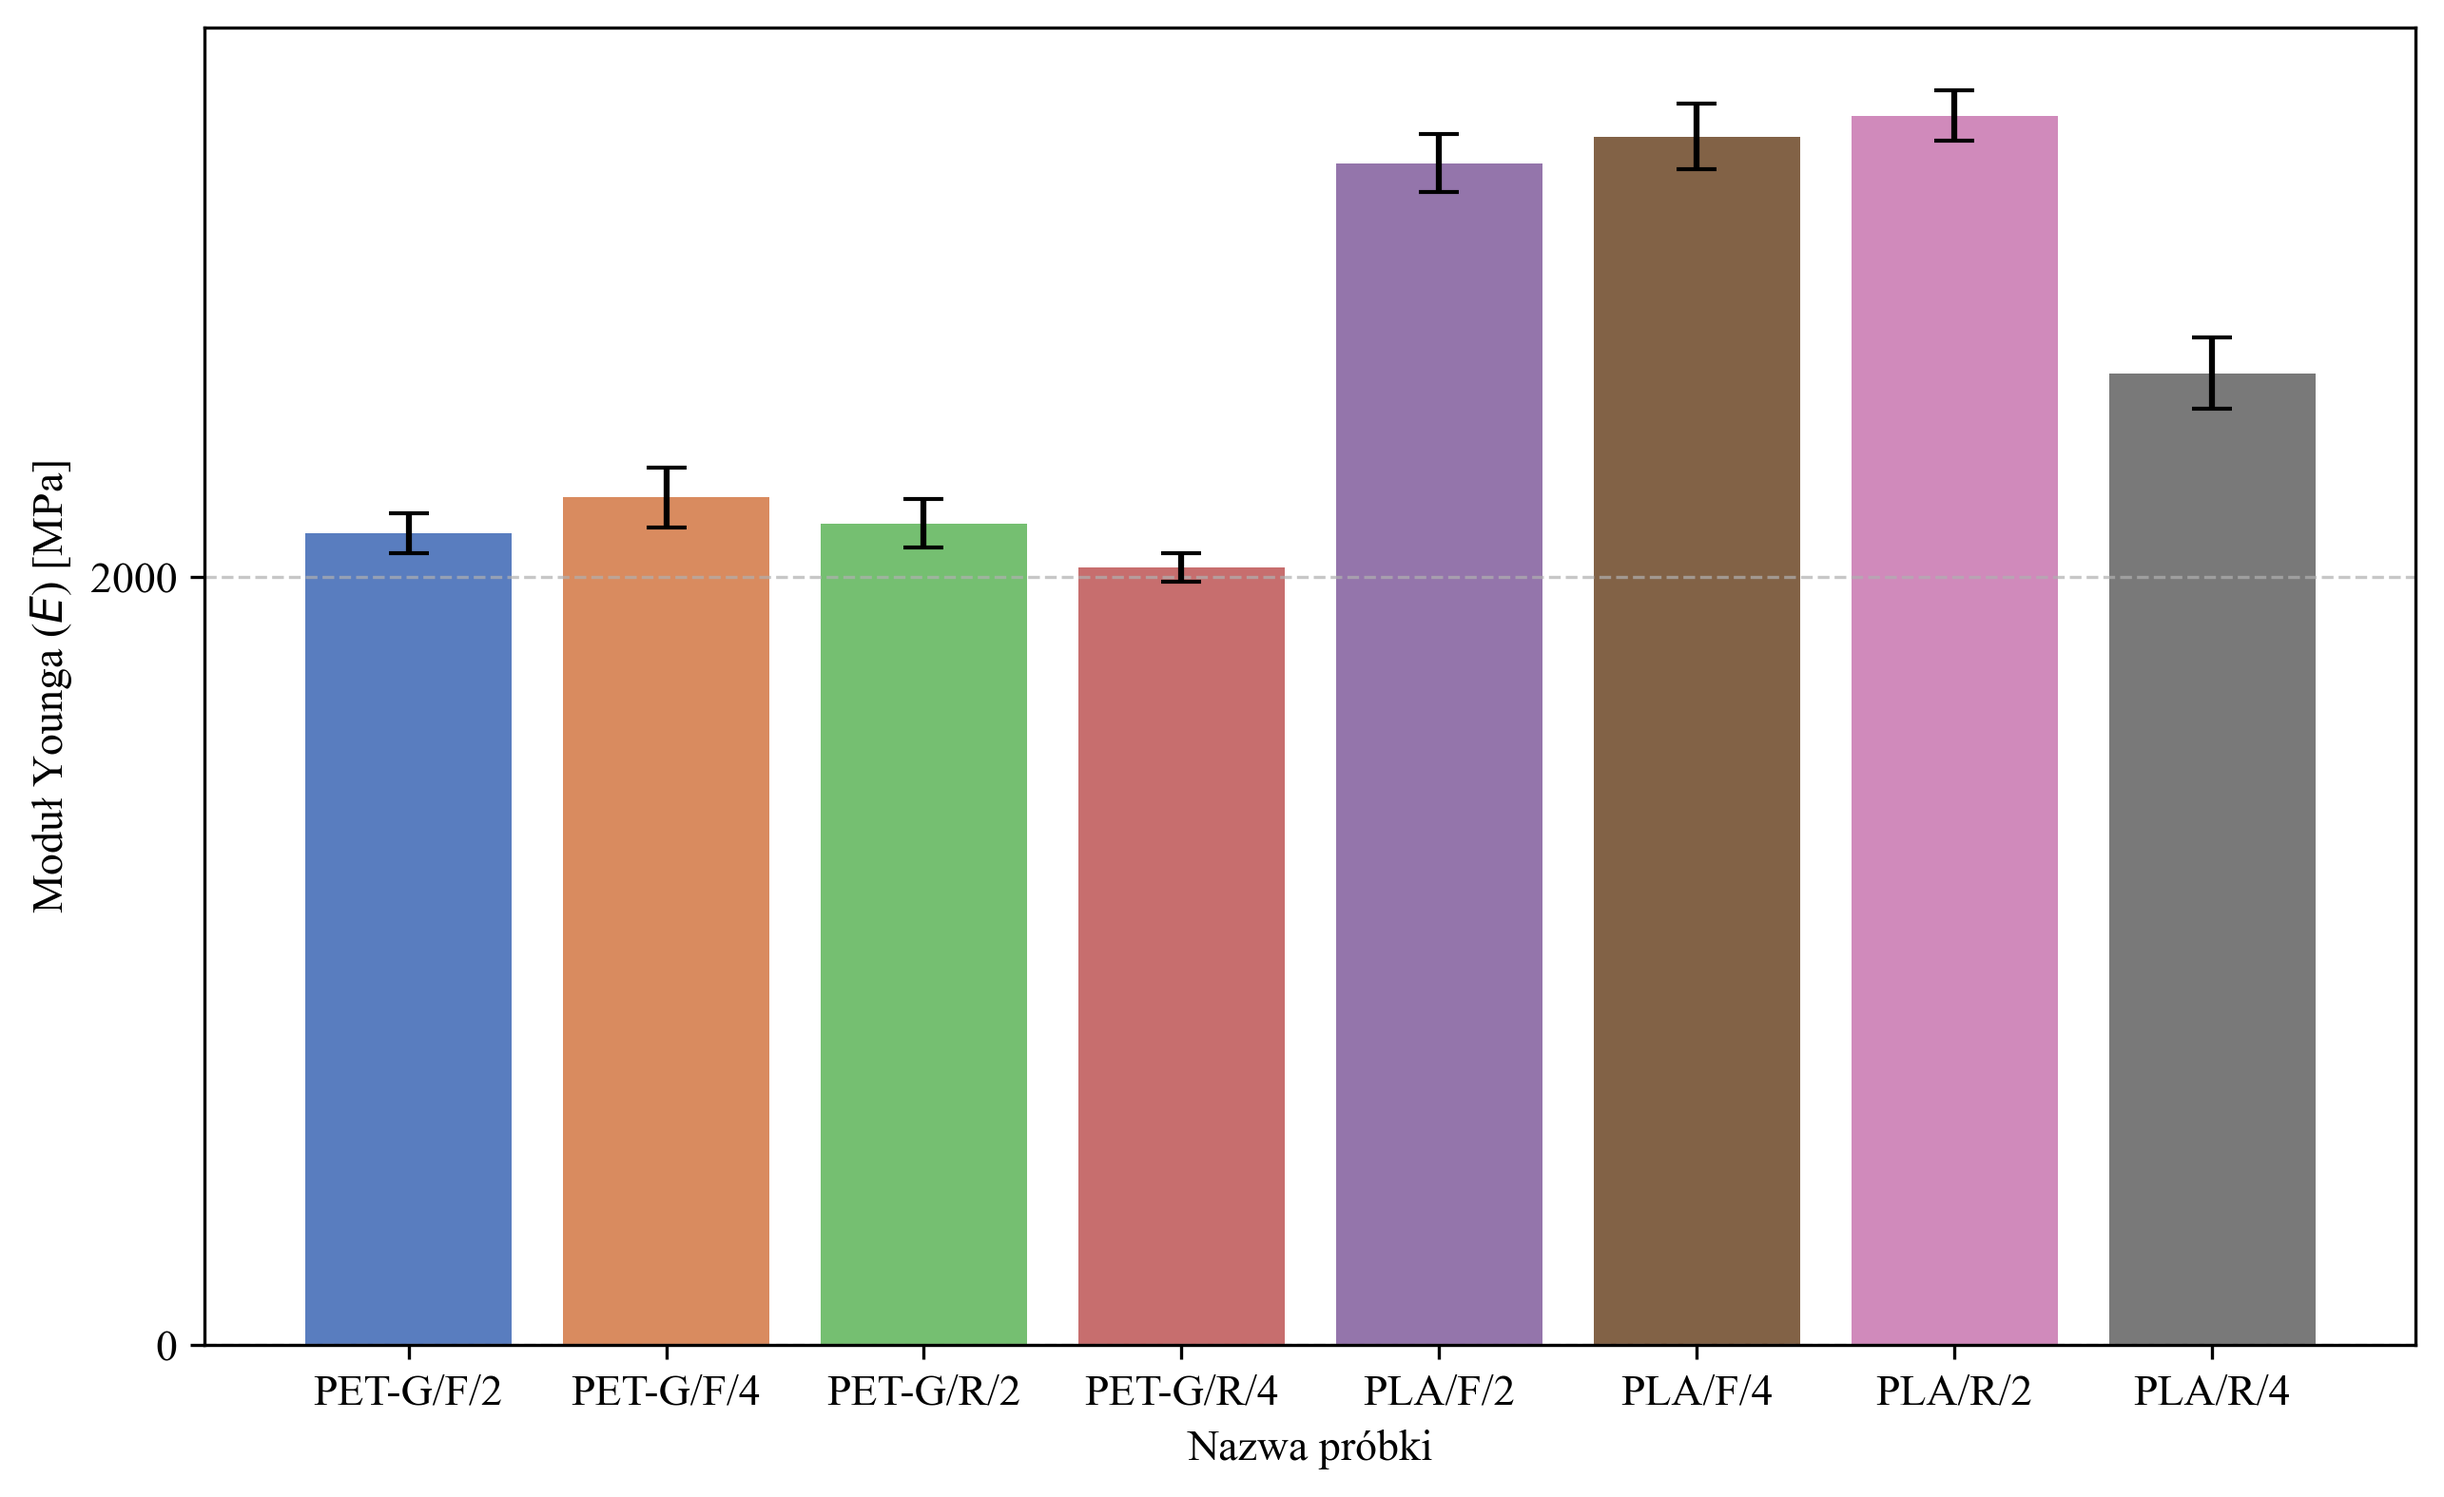
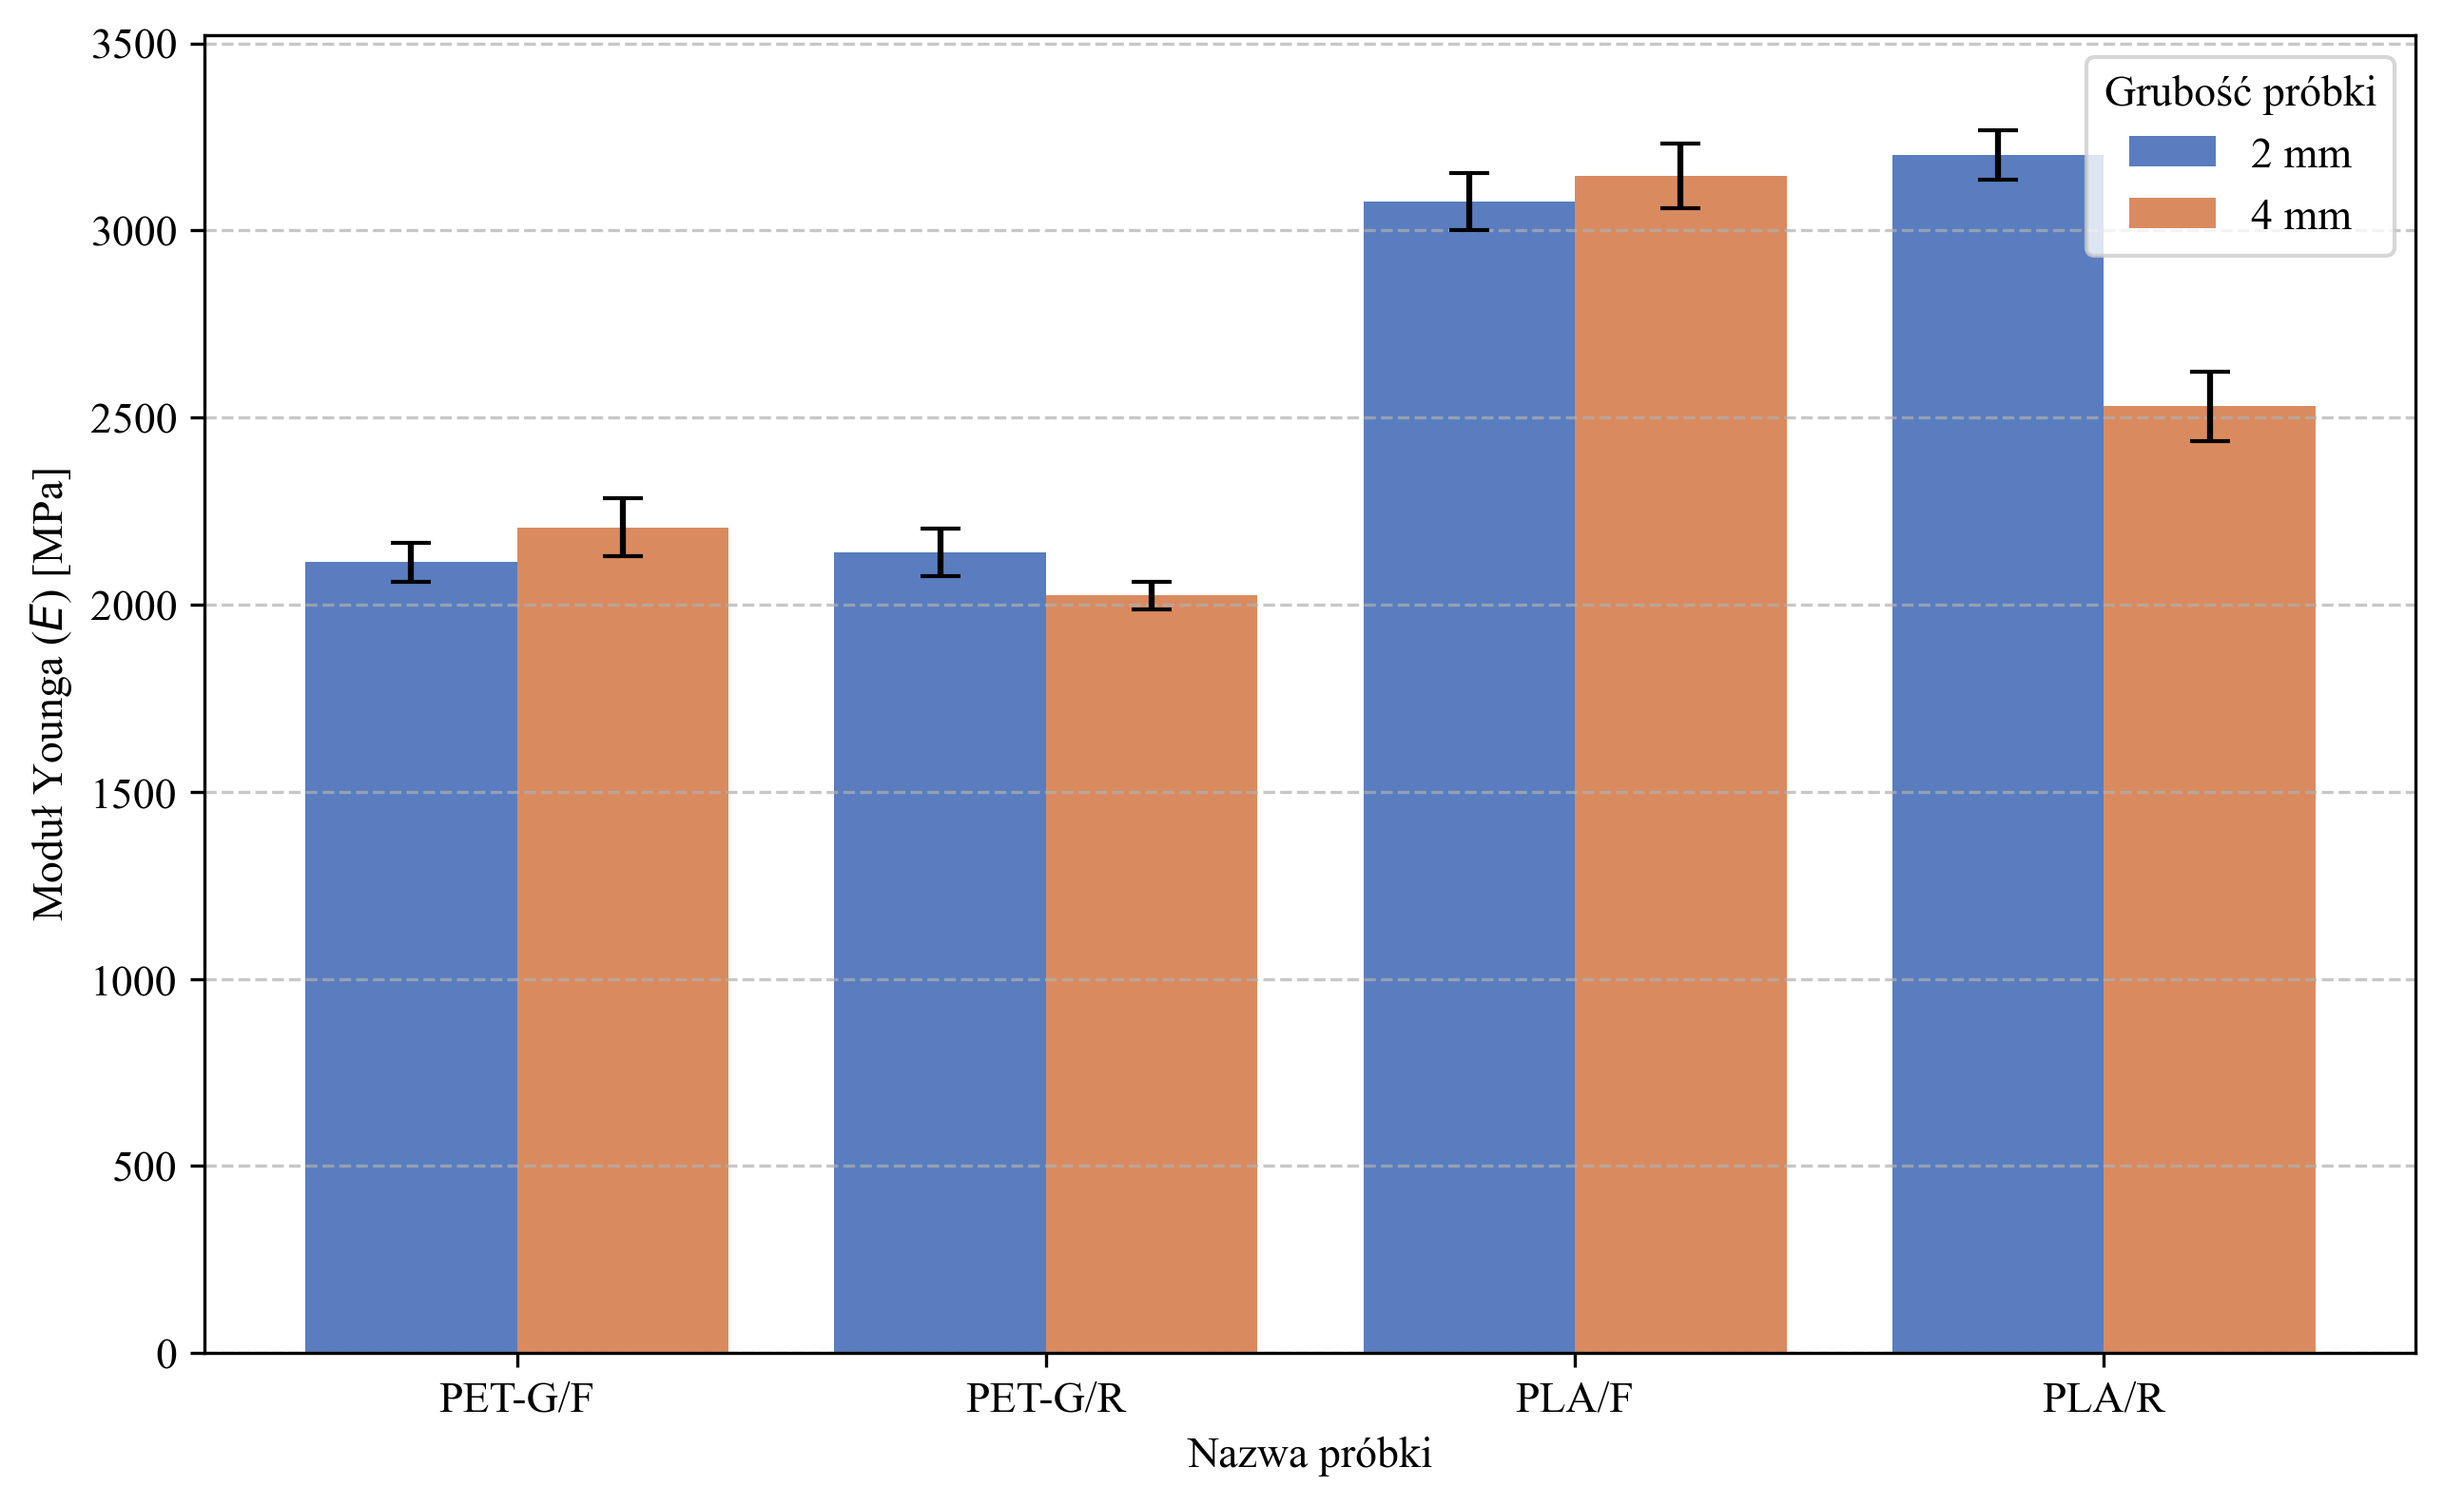
Add one surface def plot for hardnesses.

diff --git a/src/tensile_plot.py b/src/tensile_plot.py
@@ -15,24 +15,53 @@ def plot_tensile_chart(summary, column_name):
     }
     y_label = y_labels.get(column_name, column_name)  # Jeśli brak, użyj nazwy kolumny
 
-    # Tworzenie wykresu słupkowego
+    # Zamiana nazw w legendzie dla różnych temperatur
+    summary["Legenda"] = summary["Thick"].map({2: "2 mm", 4: "4 mm"})
+
+    # Wykres słupkowy
     ax = sns.barplot(
         x="Sample",
         y="mean",
+        hue="Legenda",
         data=summary,
         errorbar=None,
+        capsize=0.1,
         palette="muted",
-        hue="Sample",
-        legend=False,
     )
 
+    # Pobranie unikalnych próbek i grubości
+    unique_samples = summary["Sample"].unique()
+    thick_offsets = {2: -0.2, 4: 0.2}
+
+    # Mapa indeksów dla pozycji słupków
+    sample_positions = {sample: i for i, sample in enumerate(unique_samples)}
+
     # Dodanie odchyleń standardowych
-    for i, row in summary.iterrows():
-        plt.errorbar(
-            x=i, y=row["mean"], yerr=row["std"], fmt="none", color="black", capsize=5
+    for i in range(len(summary)):
+        sample = summary["Sample"].iloc[i]
+        thick = summary["Thick"].iloc[i]
+        x_pos = sample_positions[sample] + thick_offsets[thick]  # Ustawienie pozycji
+        y_pos = summary["mean"].iloc[i]
+        yerr_val = summary["std"].iloc[i]
+
+        # Rysowanie odchyleń standardowych
+        ax.errorbar(
+            x=x_pos,
+            y=y_pos,
+            yerr=yerr_val,
+            fmt="none",
+            color="black",
+            capsize=5,
         )
 
-    # Ustawienie siatki
+    # Ustawienia osi
+    plt.xlabel("Nazwa próbki")
+    plt.ylabel(y_label)  # Dynamiczny opis osi Y
+
+    # Zmiana pozycji legendy
+    plt.legend(title="Grubość próbki", loc="upper right", bbox_to_anchor=(1, 1))
+
+    # Linie siatki
     max_value = summary["mean"].max()
     ax.set_yticks(
         np.arange(
@@ -43,8 +72,8 @@ def plot_tensile_chart(summary, column_name):
     )
     plt.grid(axis="y", linestyle="--", alpha=0.7)
 
-    plt.xlabel("Nazwa próbki")
-    plt.ylabel(y_label)  # Dynamiczny opis osi Y
+    # Ustawienie zakresu na osi y
+    ax.set_ylim(0, summary["mean"].max() * 1.1)
 
     # Zapis wykresu do pliku PNG
     plt.savefig(f"outputs/tensile_{column_name}.png", dpi=300, bbox_inches="tight")

diff --git a/src/main.py b/src/main.py
@@ -1,9 +1,9 @@
 import pandas as pd
 from matplotlib import pyplot as plt
-from hardness_shore_plot import plot_hardness_shore_chart
+from hardness_shore_plot import plot_hardness_shore_surfaces_chart, plot_hardness_shore_plate_surface_chart
 from density_plot import plot_density_chart
 from impact_tensile_plot import plot_impact_tensile_chart
-from hardness_ball_plot import plot_hardness_ball_chart
+from hardness_ball_plot import plot_hardness_ball_surfaces_chart, plot_hardness_ball_plate_surface_chart
 from elasticity_plot import plot_elasticity_chart
 from impact_tensile_temp_plot import plot_impact_tensile_temp_chart
 from tensile_temp_plot import plot_tensile_temp_chart
@@ -38,13 +38,16 @@ tensile_temp_file = os.path.join("data", "tensile_temp.csv")
 df_hardness_shore = load_data(hardness_shore_file)
 summary_hardness_shore = calculate_statistics(df_hardness_shore, "Value")
 save_summary_to_csv(summary_hardness_shore, "hardness_shore_summary.csv")
-plot_hardness_shore_chart(summary_hardness_shore)
+plot_hardness_shore_surfaces_chart(summary_hardness_shore)
+plot_hardness_shore_plate_surface_chart(summary_hardness_shore)
+
 
 # Twardość metodą kulki
 df_hardness_ball = load_data(hardness_ball_file)
 summary_hardness_ball = calculate_statistics(df_hardness_ball, "H")
 save_summary_to_csv(summary_hardness_ball, "hardness_ball_summary.csv")
-plot_hardness_ball_chart(summary_hardness_ball)
+plot_hardness_ball_surfaces_chart(summary_hardness_ball)
+plot_hardness_ball_plate_surface_chart(summary_hardness_ball)
 
 # Gęstość
 df_density = load_data(density_file)
@@ -70,7 +73,7 @@ summary_young = calculate_statistics(df_young, "E")
 save_summary_to_csv(summary_young, "tensile_E_summary.csv")
 plot_tensile_chart(summary_young, "E")
 
-# Wydłużenie przy zerwaniu w różnych temperaturach
+# Moduł Younga w różnych temperaturach
 df_tensile_temp = load_data(tensile_temp_file)
 summary_tensile_temp = calculate_statistics(df_tensile_temp, "E")
 save_summary_to_csv(summary_tensile_temp, "tensile_temp_E_summary.csv")

diff --git a/src/hardness_ball_plot.py b/src/hardness_ball_plot.py
@@ -2,12 +2,12 @@ import seaborn as sns
 import matplotlib.pyplot as plt
 
 
-def plot_hardness_ball_chart(summary):
+def plot_hardness_ball_surfaces_chart(summary):
     plt.figure(figsize=(10, 6))
 
     # Zamiana nazw w legendzie
     summary["Legenda"] = summary["Plate/Print"].replace(
-        {"Plate": "Plate surface", "Print": "Free surface"}
+        {"Plate": "Plate", "Print": "Free"}
     )
 
     # Wykres słupkowy
@@ -55,4 +55,52 @@ def plot_hardness_ball_chart(summary):
     ax.set_ylim(0, summary["mean"].max() + 12)
 
     # Eksport wykresu do pliku PNG
-    plt.savefig("outputs/hardness_ball.png", dpi=300, bbox_inches="tight")
+    plt.savefig("outputs/hardness_ball_surface.png", dpi=300, bbox_inches="tight")
+
+
+def plot_hardness_ball_plate_surface_chart(summary):
+
+    summary_plate = summary[summary["Plate/Print"] == "Plate"]
+
+    plt.figure(figsize=(10, 6))
+
+    # Wykres słupkowy dla plate
+    ax = sns.barplot(
+        x="Sample",
+        y="mean",
+        hue="Sample",
+        data=summary_plate,
+        errorbar=None,
+        capsize=5,
+        palette="muted",
+    )
+
+    # Dodanie odchyleń standardowych
+    for i in range(len(summary_plate)):
+        x_pos = i  # Ustawienie pozycji na osi X
+        yerr_val = summary_plate["std"].iloc[i]
+        y_pos = summary_plate["mean"].iloc[i]
+
+        # Rysowanie odchyleń standardowych
+        ax.errorbar(
+            x=x_pos,
+            y=y_pos,
+            yerr=yerr_val,
+            fmt="none",
+            color="black",
+            capsize=5,
+        )
+
+    # Ustawienia osi
+    plt.xlabel("Nazwa próbki")
+    plt.ylabel("Twardość metodą wciskania kulki (H)")
+
+    # Linie siatki
+    ax.grid(True, which="both", axis="y", linestyle="--", linewidth=0.5, alpha=0.5)
+
+    # Ustawienie zakresu na osi y
+    ax.set_ylim(0, summary_plate["mean"].max() + 12)
+
+    # Eksport wykresu do pliku PNG
+    plt.savefig("outputs/hardness_ball_plate.png", dpi=300, bbox_inches="tight")
+

diff --git a/src/hardness_shore_plot.py b/src/hardness_shore_plot.py
@@ -2,12 +2,12 @@ import seaborn as sns
 import matplotlib.pyplot as plt
 
 
-def plot_hardness_shore_chart(summary):
+def plot_hardness_shore_surfaces_chart(summary):
     plt.figure(figsize=(10, 6))
 
     # Zamiana nazw w legendzie
     summary["Legenda"] = summary["Plate/Print"].replace(
-        {"Plate": "Plate surface", "Print": "Free surface"}
+        {"Plate": "Plate", "Print": "Free"}
     )
 
     # Wykres słupkowy
@@ -55,4 +55,52 @@ def plot_hardness_shore_chart(summary):
     ax.set_ylim(0, summary["mean"].max() + 12)
 
     # Eksport wykresu do pliku PNG
-    plt.savefig("outputs/hardness_shore.png", dpi=300, bbox_inches="tight")
+    plt.savefig("outputs/hardness_shore_surfaces.png", dpi=300, bbox_inches="tight")
+
+
+def plot_hardness_shore_plate_surface_chart(summary):
+
+    summary_plate = summary[summary["Plate/Print"] == "Plate"]
+
+    plt.figure(figsize=(10, 6))
+
+    # Wykres słupkowy dla Plate
+    ax = sns.barplot(
+        x="Sample",
+        y="mean",
+        hue="Sample",
+        data=summary_plate,
+        errorbar=None,
+        capsize=5,
+        palette="muted",
+    )
+
+    # Dodanie odchyleń standardowych
+    for i in range(len(summary_plate)):
+        x_pos = i  # Ustawienie pozycji na osi X
+        yerr_val = summary_plate["std"].iloc[i]
+        y_pos = summary_plate["mean"].iloc[i]
+
+        # Rysowanie odchyleń standardowych
+        ax.errorbar(
+            x=x_pos,
+            y=y_pos,
+            yerr=yerr_val,
+            fmt="none",
+            color="black",
+            capsize=5,
+        )
+
+    # Ustawienia osi
+    plt.xlabel("Nazwa próbki")
+    plt.ylabel("Twardość Shore'a [Shore D]")
+
+    # Linie siatki
+    ax.grid(True, which="both", axis="y", linestyle="--", linewidth=0.5, alpha=0.5)
+
+    # Ustawienie zakresu na osi y
+    ax.set_ylim(0, summary_plate["mean"].max() + 12)
+
+    # Eksport wykresu do pliku PNG
+    plt.savefig("outputs/hardness_shore_plate.png", dpi=300, bbox_inches="tight")
+

diff --git a/src/analyze.py b/src/analyze.py
@@ -27,6 +27,12 @@ def calculate_statistics(df, column_name):
             .agg(["mean", "std"])
             .reset_index()
         )
+    elif "Thick" in df.columns:
+        summary = (
+            df.groupby(["Sample", "Thick"])[column_name]
+            .agg(["mean", "std"])
+            .reset_index()
+        )
     else:
         summary = df.groupby("Sample")[column_name].agg(["mean", "std"]).reset_index()
 
@@ -81,6 +87,8 @@ def nice_tick_step(max_value):
         return 100
     elif max_value < 1000:
         return 200
+    elif max_value < 5000:
+        return 500
     elif max_value < 20000:
         return 2000
     else:

diff --git a/src/impact_tensile_plot.py b/src/impact_tensile_plot.py
@@ -1,6 +1,5 @@
 import seaborn as sns
 import matplotlib.pyplot as plt
-import os
 import numpy as np
 
 
